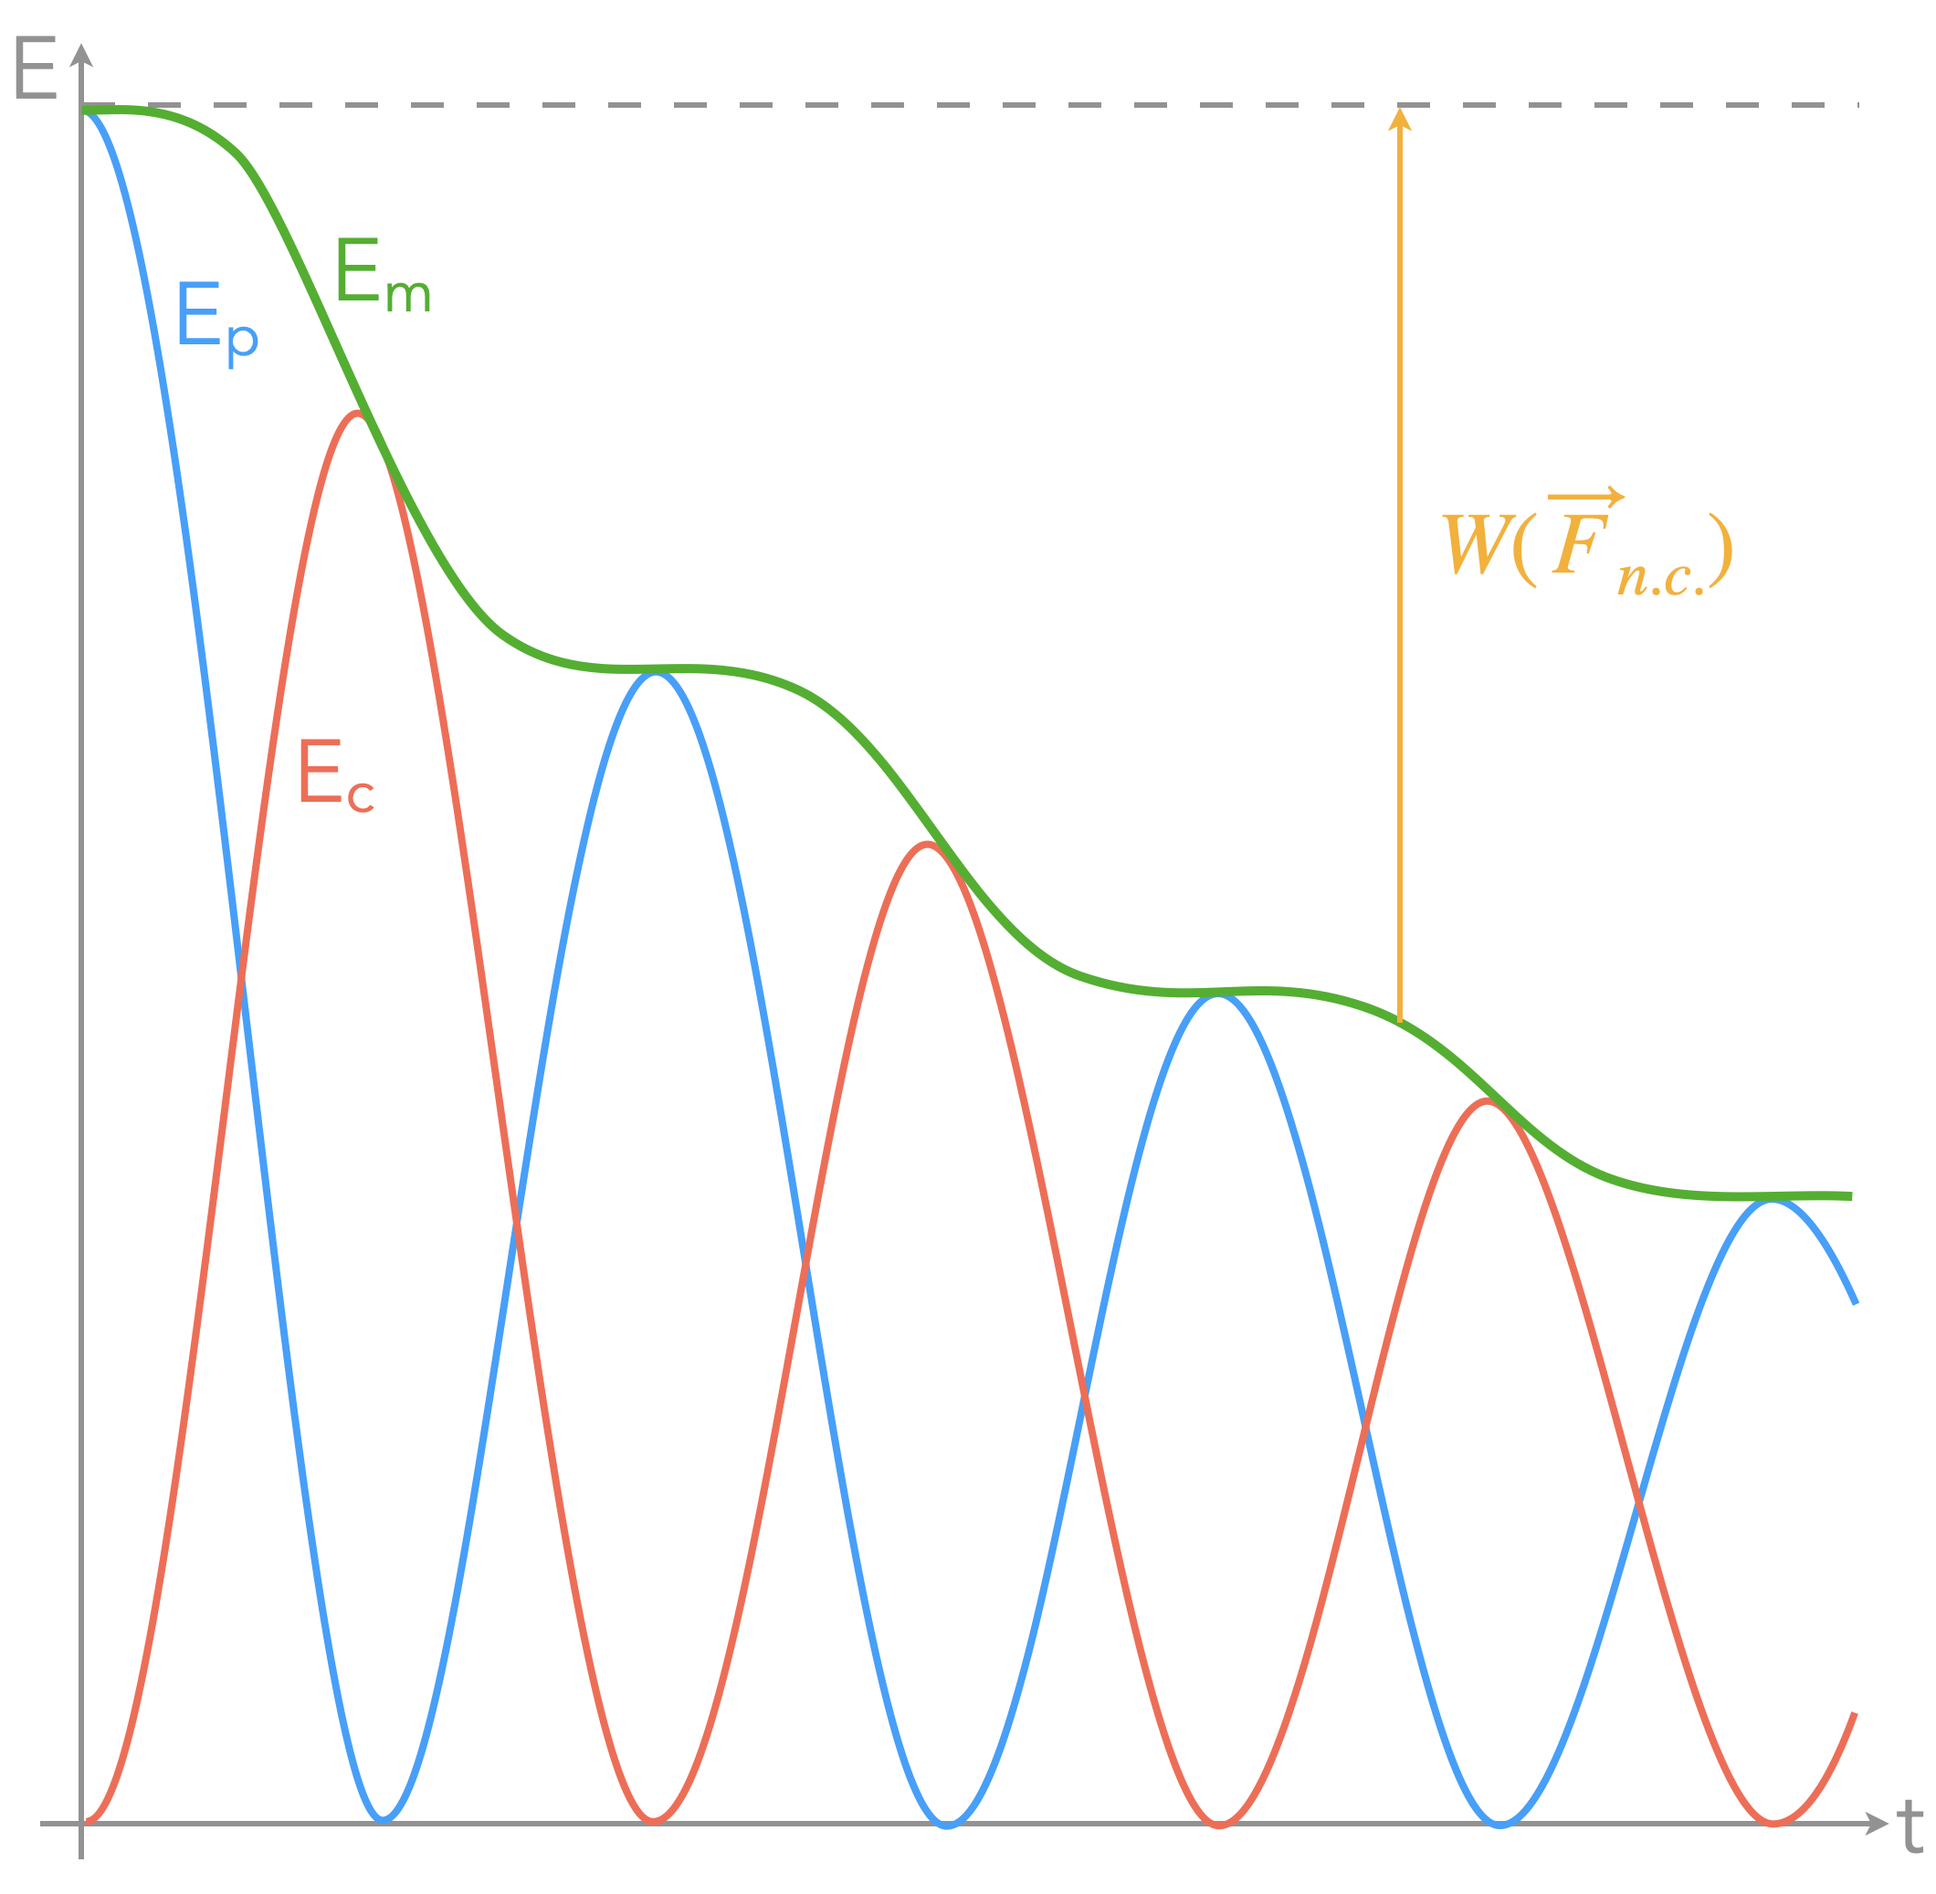
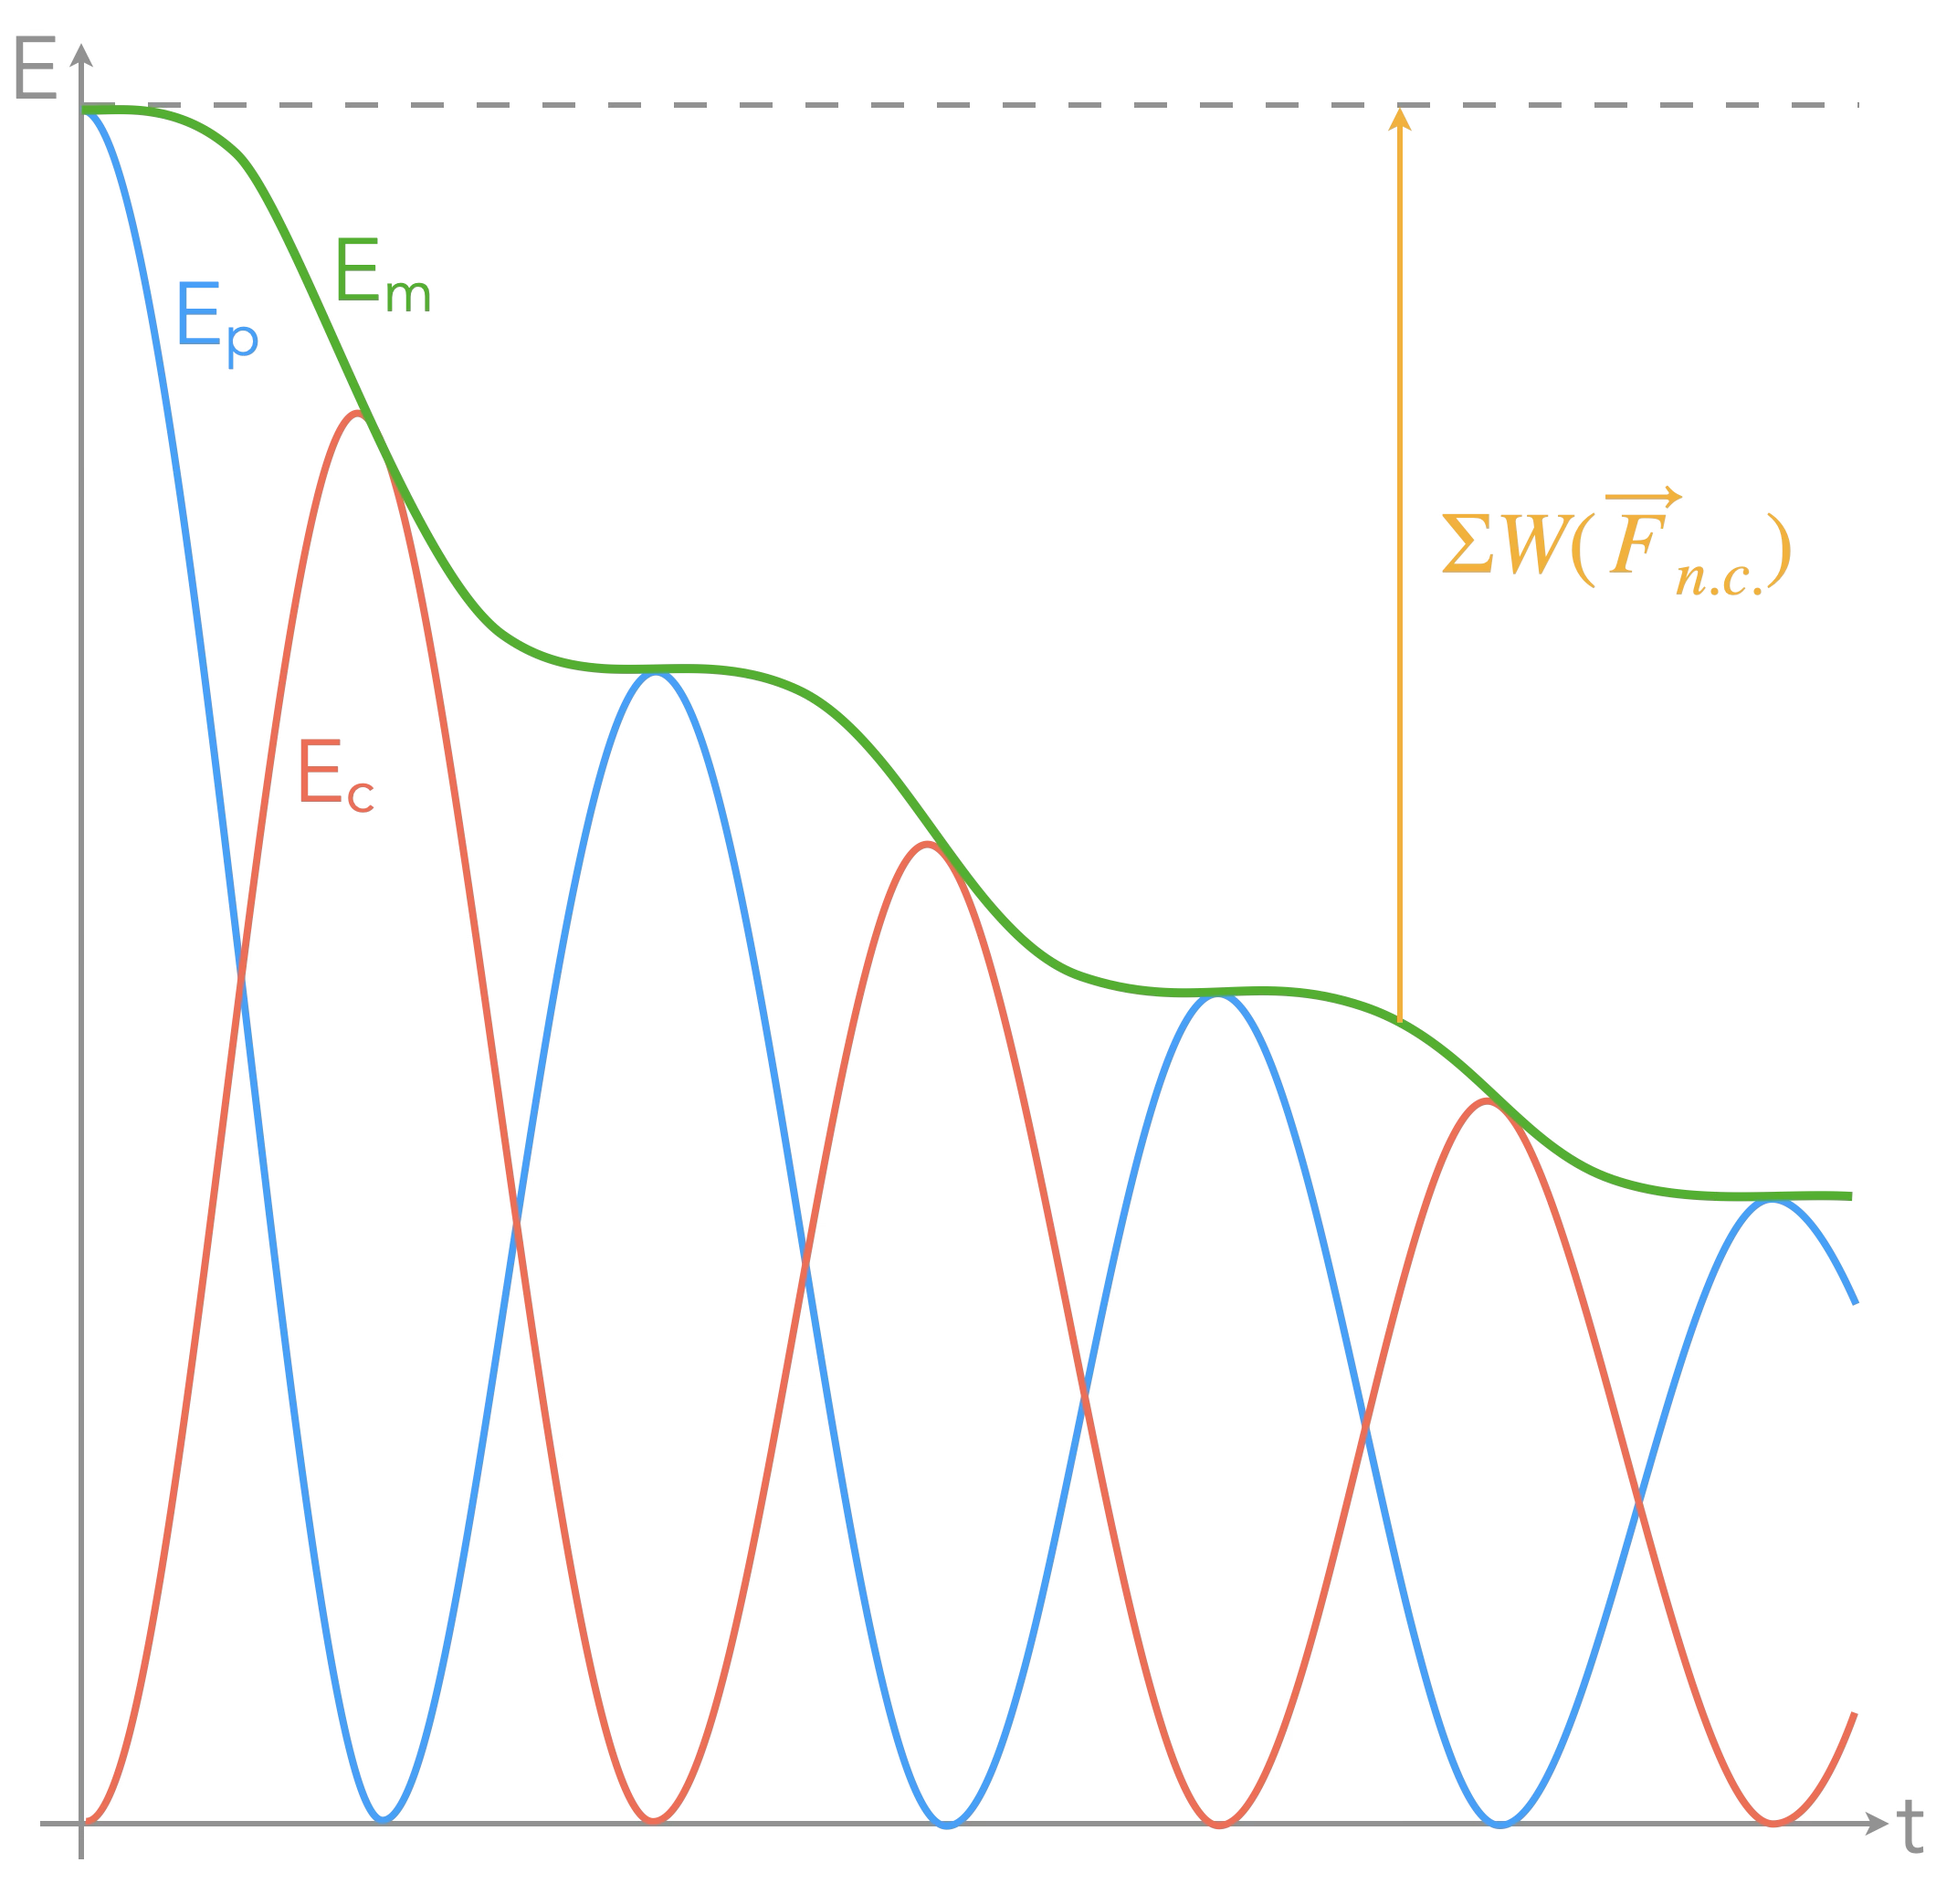
-

Changed region(s): [[0.7472, 0.2469, 0.934, 0.3086]]

diff --git a/1spe/egiemeca/index.html b/1spe/egiemeca/index.html
@@ -150,6 +150,12 @@ entre cette force et le déplacement<br>$\overrightarrow{AB}$.</p>
 <p>$$
 W_{\!AB}(\vec{P}) = \overrightarrow{P}\cdot\overrightarrow{AB} = -mg(z_B-z_A)
 $$</p>
+</section><section>
+<p>Que vaut le travail du poids pour un système de 100 g pour chacun des trajets suivant ?</p>
+<br>
+<div style="position:relative;margin-left:auto;margin-right:auto;width:800px;max-width:100%;margin-bottom:-1em;margin-top:-1em;">
+<img src="/travpoids.png" style="box-shadow:none;background:none;">
+</div>
 
 </section>
 </section><section>
@@ -266,8 +272,11 @@ $$
 </section><section>
 <p>Si le travail d&rsquo;une force entre deux points A et B<br>ne dépend que des coordonnées de A et de B,<br>alors cette force est dite <span class="imp">conservative</span>.</p>
 </section><section>
-<p>Or on l&rsquo;a vu, le travail du poids ne dépend que<br>de la différence d&rsquo;altitude $z_B-z_A$.<br></p>
-<p>Le poids est donc une force conservative.</p>
+<p>Pouvez-vous citer un exemple de force conservative ?</p>
+</section><section>
+<p>Le <span class="imp">poids</span> est une <span class="imp">force conservative</span>.</p>
+<p class="fragment">
+En effet, on l'a vu, le travail du poids ne dépend<br>que de la différence d'altitude $z_B-z_A$<br>(pas du tout des points intermédiaires).</p>
 </section><section>
 <p>On peut associer à toute force conservative<br>une <span class="imp">énergie potentielle</span> telle que la variation<br>d&rsquo;énergie potentielle entre deux points A et B<br>est opposée au travail de la force.</p>
 </section><section>
@@ -293,7 +302,7 @@ $E_{pp} = mgz$
 </section><section>
 <p>Une force dont le travail dépend du chemin suivi (et pas seulement des extrémités) est dite <span class="imp">non conservative</span>.</p>
 <p class="fragment">
-C'est typiquement le cas des forces de frottements.
+C'est typiquement le cas <span class="fragment">des <span class="imp">forces de frottements</span>.</span>
 </p>
 </section><section>
 <p>Le travail d&rsquo;une force de frottement sera nécessairement plus grand sur le chemin vert alors que celui du poids sera le même sur les deux chemins.</p>
@@ -308,14 +317,21 @@ C'est typiquement le cas des forces de frottements.
 <section data-shortcode-section>
 <h2 id="énergie-mécanique">Énergie mécanique</h2>
 </section><section>
-<p>L&rsquo;énergie mécanique d&rsquo;un système est la somme de son énergie cinétique et de son énergie potentielle :</p>
+<p>L&rsquo;<span class="imp">énergie mécanique</span> d&rsquo;un système est la somme de son énergie cinétique et de son énergie potentielle :</p>
+<br>
 <div class="imp" style="display: flex;justify-content: center;">
 <div style = "border:solid #FF968D 5px;padding: 20px 20px 30px 20px; font-size:1.2em;border-radius:10px;">
 $E_{m} = E_c + E_p$
 </div></div>
 </section><section>
-<p>Si le système n&rsquo;est soumis qu&rsquo;à des <span class="imp">forces conservatives</span> et/ou à des forces dont le travail est nul, alors <span class="imp">son énergie mécanique se conserve</span>.</p>
-<div class="imp" style="display: flex;justify-content: center;">
+<p>Si les forces agissant sur le système sont chacune</p>
+<ul>
+<li>soit <span class="imp">conservatives</span></li>
+<li>soit de <span class="imp">travail nul</span>.</li>
+</ul>
+<p>alors l&rsquo;<span class="imp">énergie mécanique</span> du système <span class="imp">se conserve</span>.</p>
+<br>
+<div class="imp fragment" style="display: flex;justify-content: center;">
 <div style = "border:solid #FF968D 5px;padding: 20px 20px 30px 20px; font-size:1.2em;border-radius:10px;">
 $\Delta E_{m} = 0$
 </div></div>
@@ -361,7 +377,7 @@ Mais celle-ci n'a pas disparu ;<br>elle se retrouve convertie sous forme thermiq
 <br>
 <div class="fragment imp" style="display: flex;justify-content: center;">
 <div style = "border:solid #FF968D 5px;padding: 20px 20px 30px 20px; font-size:1.1em;border-radius:10px;">
-$\Delta E_{m} = E_{mB} - E_{mB} = \sum{W_{\!AB}(\vec{F}_{n.c.})}$
+$\Delta E_{m} = E_{mB} - E_{mA} = \sum{W_{\!AB}(\vec{F}_{n.c.})}$
 </div></div>
 </section>
 <section data-noprocess data-shortcode-slide
